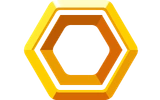
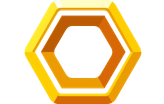
Use Roobet's real rank ladder, and fix the blurry emblems
The ladder is now the actual one: 31 ranks from Beginner to Immortal with
Roobet's own wager requirements, replacing the custom names and thresholds
that were there before.

Rewards keep the five amounts from the original table and attach to the
tier families -- $20 a Silver, $50 a Gold, $100 an Emerald, $200 a Ruby,
$250 a Diamond. That is 17 paying ranks and $1,930. Champion I upward is
listed because it is the real ladder but carries no reward: it starts at
$18,000,000 wagered and runs to ten billion, so those rows are shown faded
with a dash rather than given a number nobody will claim. Setting one is a
single edit.

The blur was a scaling bug, not a source problem. The art is 41x26 and was
being resized to 160x100 -- 3.9x, so each source pixel covered an uneven
number of output pixels and every hex edge smeared. It is now 164x104,
exactly 4x, rendered at 82px CSS: a 1x screen lands on 2x the original and
a 2x screen on 4x, both whole multiples. Eleven emblems exist at 256x160
and are downscaled smoothly instead.

formatCompact() keeps the big thresholds readable. It carries two decimals
rather than one because one rounds $2,250,000 up to "$2.3M", which would
tell a player sitting on $2.26M they had not reached a rank they had.

diff --git a/src/lib/milestones.ts b/src/lib/milestones.ts
@@ -1,74 +1,98 @@
 import { PARTNERS } from './partners';
 
 /**
- * The rank ladder and what each step pays.
+ * Roobet's rank ladder, with what each step pays.
  *
- * Twenty ranks in five reward bands. The `reward` figures are what actually
- * gets paid, so the totals on the page are summed from this array rather than
- * written out anywhere — the headline and the table cannot disagree.
+ * The names and the wager requirements are Roobet's own and are reproduced
+ * exactly. The `reward` column is ours.
  *
- * `emblem` names a file in /public/ranks. The art is Roobet's own rank
- * iconography, which is why the ladder reads as theirs: pale hexes through
- * gold, then gems, then the trophy, crown and skull at the top.
- *
- * `band` groups consecutive ranks that pay the same. It drives the dividers on
- * the page, so a band is defined once here instead of being hardcoded as a
- * row index in the markup.
+ * Rewards are set through Diamond III and are 0 above it. That is not an
+ * oversight: Champion I needs $18,000,000 wagered and Immortal needs ten
+ * billion, so those rows are the ladder being shown in full rather than a
+ * payout anybody is going to claim. Setting a figure there is a one-number
+ * edit if it ever matters.
  */
 export interface Milestone {
   rank: string;
   /** Lifetime wagered under the code, in whole dollars. */
   requirement: number;
-  /** One-time payout for reaching it. */
+  /** One-time payout for reaching it. 0 where no reward is set. */
   reward: number;
   emblem: string;
+  /** Tier family. Drives the dividers and the accent, so regrouping is data. */
   band: string;
 }
 
 export const MILESTONES: Milestone[] = [
-  { rank: 'Rookie', requirement: 10_000, reward: 20, emblem: 'beginner', band: 'Rookie' },
-  { rank: 'Advanced Rookie', requirement: 20_000, reward: 20, emblem: 'silver1', band: 'Rookie' },
-  { rank: 'Big Dick Rookie', requirement: 30_000, reward: 20, emblem: 'silver2', band: 'Rookie' },
-  { rank: 'Veteran Rookie', requirement: 40_000, reward: 20, emblem: 'silver3', band: 'Rookie' },
-  { rank: 'Rookie Elite', requirement: 50_000, reward: 20, emblem: 'silver4', band: 'Rookie' },
+  { rank: 'Beginner', requirement: 0, reward: 0, emblem: 'beginner', band: 'Beginner' },
 
-  { rank: 'Platinum Recruit', requirement: 75_000, reward: 50, emblem: 'gold1', band: 'Platinum' },
-  { rank: 'Platinum Soldier', requirement: 100_000, reward: 50, emblem: 'gold2', band: 'Platinum' },
-  { rank: 'Platinum Veteran', requirement: 125_000, reward: 50, emblem: 'gold3', band: 'Platinum' },
-  { rank: 'Platinum Elite', requirement: 150_000, reward: 50, emblem: 'gold4', band: 'Platinum' },
-  { rank: 'Platinum Commander', requirement: 175_000, reward: 50, emblem: 'emerald1', band: 'Platinum' },
+  { rank: 'Silver I', requirement: 1_000, reward: 20, emblem: 'silver1', band: 'Silver' },
+  { rank: 'Silver II', requirement: 2_700, reward: 20, emblem: 'silver2', band: 'Silver' },
+  { rank: 'Silver III', requirement: 5_500, reward: 20, emblem: 'silver3', band: 'Silver' },
+  { rank: 'Silver IV', requirement: 10_000, reward: 20, emblem: 'silver4', band: 'Silver' },
 
-  { rank: 'Elite Soldier', requirement: 250_000, reward: 100, emblem: 'emerald2', band: 'Elite' },
-  { rank: 'Elite Veteran', requirement: 325_000, reward: 100, emblem: 'emerald3', band: 'Elite' },
-  { rank: 'Elite Commander', requirement: 400_000, reward: 100, emblem: 'diamond1', band: 'Elite' },
-  { rank: 'Elite General', requirement: 475_000, reward: 100, emblem: 'diamond2', band: 'Elite' },
-  { rank: 'Elite Master', requirement: 550_000, reward: 100, emblem: 'diamond3', band: 'Elite' },
+  { rank: 'Gold I', requirement: 18_500, reward: 50, emblem: 'gold1', band: 'Gold' },
+  { rank: 'Gold II', requirement: 32_000, reward: 50, emblem: 'gold2', band: 'Gold' },
+  { rank: 'Gold III', requirement: 56_000, reward: 50, emblem: 'gold3', band: 'Gold' },
+  { rank: 'Gold IV', requirement: 95_000, reward: 50, emblem: 'gold4', band: 'Gold' },
 
-  { rank: 'Elite Legend', requirement: 700_000, reward: 200, emblem: 'ruby3', band: 'Legend' },
-  { rank: 'The General', requirement: 800_000, reward: 200, emblem: 'champion3', band: 'Legend' },
-  { rank: 'The Warlord', requirement: 900_000, reward: 200, emblem: 'master3', band: 'Legend' },
-  { rank: 'The Overlord', requirement: 1_000_000, reward: 200, emblem: 'gm3', band: 'Legend' },
+  { rank: 'Emerald I', requirement: 160_000, reward: 100, emblem: 'emerald1', band: 'Emerald' },
+  { rank: 'Emerald II', requirement: 275_000, reward: 100, emblem: 'emerald2', band: 'Emerald' },
+  { rank: 'Emerald III', requirement: 460_000, reward: 100, emblem: 'emerald3', band: 'Emerald' },
 
-  { rank: 'The Immortal', requirement: 1_250_000, reward: 250, emblem: 'immortal', band: 'Immortal' },
+  { rank: 'Ruby I', requirement: 785_000, reward: 200, emblem: 'ruby1', band: 'Ruby' },
+  { rank: 'Ruby II', requirement: 1_300_000, reward: 200, emblem: 'ruby2', band: 'Ruby' },
+  { rank: 'Ruby III', requirement: 2_250_000, reward: 200, emblem: 'ruby3', band: 'Ruby' },
+
+  { rank: 'Diamond I', requirement: 3_800_000, reward: 250, emblem: 'diamond1', band: 'Diamond' },
+  { rank: 'Diamond II', requirement: 6_500_000, reward: 250, emblem: 'diamond2', band: 'Diamond' },
+  { rank: 'Diamond III', requirement: 10_000_000, reward: 250, emblem: 'diamond3', band: 'Diamond' },
+
+  { rank: 'Champion I', requirement: 18_000_000, reward: 0, emblem: 'champion1', band: 'Champion' },
+  { rank: 'Champion II', requirement: 30_000_000, reward: 0, emblem: 'champion2', band: 'Champion' },
+  { rank: 'Champion III', requirement: 50_000_000, reward: 0, emblem: 'champion3', band: 'Champion' },
+
+  { rank: 'Legend I', requirement: 88_000_000, reward: 0, emblem: 'legend1', band: 'Legend' },
+  { rank: 'Legend II', requirement: 150_000_000, reward: 0, emblem: 'legend2', band: 'Legend' },
+  { rank: 'Legend III', requirement: 250_000_000, reward: 0, emblem: 'legend3', band: 'Legend' },
+
+  { rank: 'Master I', requirement: 425_000_000, reward: 0, emblem: 'master1', band: 'Master' },
+  { rank: 'Master II', requirement: 720_000_000, reward: 0, emblem: 'master2', band: 'Master' },
+  { rank: 'Master III', requirement: 1_200_000_000, reward: 0, emblem: 'master3', band: 'Master' },
+
+  { rank: 'Grandmaster I', requirement: 2_000_000_000, reward: 0, emblem: 'gm1', band: 'Grandmaster' },
+  { rank: 'Grandmaster II', requirement: 3_500_000_000, reward: 0, emblem: 'gm2', band: 'Grandmaster' },
+  { rank: 'Grandmaster III', requirement: 6_000_000_000, reward: 0, emblem: 'gm3', band: 'Grandmaster' },
+
+  { rank: 'Immortal', requirement: 10_000_000_000, reward: 0, emblem: 'immortal', band: 'Immortal' },
 ];
+
+/** Only the ranks that actually pay. */
+export const PAYING_MILESTONES = MILESTONES.filter((m) => m.reward > 0);
 
 /** Everything on the ladder, added up. */
 export const MILESTONE_TOTAL = MILESTONES.reduce((sum, m) => sum + m.reward, 0);
 
-/** The largest single payout. Taken as a maximum so appending out of order
- *  cannot make the page lie. */
+/** The largest single payout. A maximum, so appending out of order cannot
+ *  make the page lie. */
 export const MILESTONE_TOP = Math.max(...MILESTONES.map((m) => m.reward));
 
-/** The wager that clears the whole ladder. */
-export const MILESTONE_FINAL = Math.max(...MILESTONES.map((m) => m.requirement));
+/** The wager that clears every paying rank. */
+export const MILESTONE_FINAL = Math.max(...PAYING_MILESTONES.map((m) => m.requirement));
 
-/** One accent per band, so twenty rows read as five groups. */
+/** One accent per family, so thirty-one rows read as eleven groups. */
 export const BAND_HUE: Record<string, string> = {
-  Rookie: '#9fb2d9',
-  Platinum: '#ffc95c',
-  Elite: '#2fe6a7',
-  Legend: '#ff6b9d',
-  Immortal: '#ff4d6d',
+  Beginner: '#8da2c0',
+  Silver: '#c9d4e4',
+  Gold: '#ffc95c',
+  Emerald: '#2fe6a7',
+  Ruby: '#ff4d6d',
+  Diamond: '#7cc4ff',
+  Champion: '#ffa23d',
+  Legend: '#c77dff',
+  Master: '#ffd700',
+  Grandmaster: '#53fc18',
+  Immortal: '#ff2d55',
 };
 
 /**

diff --git a/src/app/milestones/page.tsx b/src/app/milestones/page.tsx
@@ -2,7 +2,7 @@ import type { Metadata } from 'next';
 
 import { CopyCode } from '@/components/CopyCode';
 import { ExternalIcon } from '@/components/icons';
-import { formatMoney } from '@/lib/format';
+import { formatCompact, formatMoney } from '@/lib/format';
 import {
   BAND_HUE,
   MILESTONES,
@@ -10,13 +10,14 @@ import {
   MILESTONE_STEPS,
   MILESTONE_TOP,
   MILESTONE_TOTAL,
+  PAYING_MILESTONES,
 } from '@/lib/milestones';
 import { DISCORD_INVITE, PRIMARY_PARTNER } from '@/lib/partners';
 import { SITE, pageMeta } from '@/lib/site';
 
 export const metadata: Metadata = pageMeta({
   title: 'Milestones',
-  description: `${formatMoney(MILESTONE_TOTAL)} across ${MILESTONES.length} rank-up rewards, paid once each as your lifetime wagered under code ${PRIMARY_PARTNER.code} climbs.`,
+  description: `${formatMoney(MILESTONE_TOTAL)} across ${PAYING_MILESTONES.length} rank-up rewards, paid once each as your lifetime wagered under code ${PRIMARY_PARTNER.code} climbs ${PRIMARY_PARTNER.name}'s ladder.`,
   path: '/milestones',
 });
 
@@ -39,9 +40,9 @@ export default function MilestonesPage() {
           </h1>
 
           <p className="lb-lede">
-            {MILESTONES.length} ranks, each paying once the first time you pass it. These run
-            alongside the monthly leaderboard — your lifetime wagered keeps climbing whether or not
-            you place.
+            {PRIMARY_PARTNER.name}&rsquo;s rank ladder, with a one-time payout on every rank up to
+            Diamond III. These run alongside the monthly leaderboard — your lifetime wagered keeps
+            climbing whether or not you place.
           </p>
 
           <div className="lb-actions">
@@ -59,15 +60,15 @@ export default function MilestonesPage() {
 
           <div className="ms-stats">
             <div className="stat">
-              <div className="stat-v">{MILESTONES.length}</div>
-              <span className="stat-k">Ranks on the ladder</span>
+              <div className="stat-v">{PAYING_MILESTONES.length}</div>
+              <span className="stat-k">Ranks that pay</span>
             </div>
             <div className="stat">
               <div className="stat-v">{formatMoney(MILESTONE_TOP)}</div>
               <span className="stat-k">Biggest single rank-up</span>
             </div>
             <div className="stat">
-              <div className="stat-v">{formatMoney(MILESTONE_FINAL)}</div>
+              <div className="stat-v">{formatCompact(MILESTONE_FINAL)}</div>
               <span className="stat-k">Wagered to clear them all</span>
             </div>
           </div>
@@ -77,28 +78,34 @@ export default function MilestonesPage() {
       <section className="section wrap">
         <div className="section-head">
           <h2 className="h-section">The Ladder</h2>
-          <p>Lifetime wagered under code {PRIMARY_PARTNER.code}. Every rank pays once.</p>
+          <p>
+            Lifetime wagered under code {PRIMARY_PARTNER.code}. Every rank pays once, the first
+            time you pass it.
+          </p>
         </div>
 
         <div className="ladder">
           {MILESTONES.map((m, i) => {
-            // A divider wherever the reward changes, so twenty rows read as
-            // five bands without the bands being hardcoded as row numbers.
+            // A divider wherever the family changes, so thirty-one rows read as
+            // groups without the groups being hardcoded as row numbers.
             const opensBand = i === 0 || MILESTONES[i - 1].band !== m.band;
+            const sameBand = MILESTONES.filter((x) => x.band === m.band);
             // "each" only makes sense where the band holds more than one rank.
-            const bandSize = MILESTONES.filter((x) => x.band === m.band).length;
+            const bandLabel = !m.reward
+              ? m.band
+              : `${m.band} · ${formatMoney(m.reward)}${sameBand.length > 1 ? ' each' : ''}`;
 
             return (
               <div
                 className="ms-row"
                 key={m.rank}
                 data-band={m.band}
+                data-unpaid={!m.reward || undefined}
                 style={{ ['--hue' as string]: BAND_HUE[m.band] }}
               >
                 {opensBand && (
                   <span className="ms-band" aria-hidden>
-                    {m.band} · {formatMoney(m.reward)}
-                    {bandSize > 1 ? ' each' : ''}
+                    {bandLabel}
                   </span>
                 )}
 
@@ -108,21 +115,32 @@ export default function MilestonesPage() {
 
                 <span className="ms-emblem">
                   {/* eslint-disable-next-line @next/next/no-img-element -- rank emblem */}
-                  <img src={`/ranks/${m.emblem}.webp`} alt="" width="160" height="100" />
+                  <img src={`/ranks/${m.emblem}.webp`} alt="" width="164" height="104" />
                 </span>
 
                 <span className="ms-name">{m.rank}</span>
 
                 <span className="ms-req">
                   <span className="ms-req-k">Wagered</span>
-                  {formatMoney(m.requirement)}
+                  {formatCompact(m.requirement)}
                 </span>
 
-                <span className="ms-reward">{formatMoney(m.reward)}</span>
+                <span className="ms-reward">
+                  {m.reward ? formatMoney(m.reward) : <span className="ms-dash">—</span>}
+                </span>
               </div>
             );
           })}
         </div>
+
+        <p className="notice" style={{ marginTop: 20 }}>
+          <span className="notice-mark" aria-hidden>
+            !
+          </span>
+          Champion I and everything above it is {PRIMARY_PARTNER.name}&rsquo;s ladder shown in full.
+          Those ranks start at {formatCompact(18_000_000)} wagered and carry no milestone reward
+          yet.
+        </p>
       </section>
 
       <section className="section wrap" id="claiming">
@@ -154,9 +172,9 @@ export default function MilestonesPage() {
           <span className="notice-mark" aria-hidden>
             !
           </span>
-          The rank names and thresholds here are {SITE.name}&rsquo;s own, not{' '}
-          {PRIMARY_PARTNER.name}&rsquo;s. They are measured on wagered amount at face value, the
-          same figure the leaderboard settles on, and the same fair-play rules apply.
+          The ranks and wager requirements are {PRIMARY_PARTNER.name}&rsquo;s own. The rewards
+          beside them are {SITE.name}&rsquo;s, funded out of affiliate revenue, and the same
+          fair-play rules as the leaderboard apply.
         </p>
       </section>
     </>

diff --git a/src/app/milestones.css b/src/app/milestones.css
@@ -45,7 +45,7 @@
 .ms-row {
   position: relative;
   display: grid;
-  grid-template-columns: 38px 64px minmax(0, 1fr) auto auto;
+  grid-template-columns: 38px 82px minmax(0, 1fr) auto auto;
   align-items: center;
   gap: 18px;
   min-height: 72px;
@@ -93,11 +93,12 @@
 
 .ms-emblem { display: grid; place-items: center; }
 .ms-emblem img {
-  width: 64px;
+  /* Exactly half the 164x104 file, which is itself exactly 4x the 41x26 art
+     Roobet ships. A 1x screen lands on 2x the original and a 2x screen on 4x,
+     so every source pixel covers a whole number of device pixels either way.
+     The old 3.9x scale is what made these look smeared. */
+  width: 82px;
   height: auto;
-  /* The small sources are upscaled pixel art; letting the browser smooth them
-     turns the hex edges to mush. */
-  image-rendering: pixelated;
   filter: drop-shadow(0 2px 8px rgba(0, 0, 0, 0.6));
 }
 
@@ -155,16 +156,22 @@
   /* The ordinal goes: at this width the emblem and the name carry position
      well enough, and 38px of tabular figures is the cheapest column to lose. */
   .ms-row {
-    grid-template-columns: 52px minmax(0, 1fr) auto;
+    grid-template-columns: 66px minmax(0, 1fr) auto;
     gap: 4px 14px;
     padding: 14px 16px;
     min-height: 0;
   }
   .ms-n { display: none; }
   .ms-emblem { grid-row: 1 / span 2; }
-  .ms-emblem img { width: 52px; }
+  .ms-emblem img { width: 66px; }
   .ms-name { grid-column: 2; grid-row: 1; font-size: 15px; }
   .ms-req { grid-column: 2; grid-row: 2; justify-items: start; text-align: left; font-size: 13.5px; }
   .ms-req-k { display: none; }
   .ms-reward { grid-column: 3; grid-row: 1 / span 2; font-size: 18px; }
 }
+
+/* Champion and above: shown because it is the real ladder, held back because
+   nothing is attached to them yet. */
+.ms-row[data-unpaid] { opacity: 0.6; }
+.ms-row[data-unpaid]:hover { opacity: 1; }
+.ms-dash { color: var(--dim); font-weight: 600; }

diff --git a/src/lib/format.ts b/src/lib/format.ts
@@ -56,3 +56,28 @@ export function periodLabel(start: string): string {
     timeZone: 'UTC',
   });
 }
+
+/**
+ * Short form for the big end of the rank ladder.
+ *
+ * "$10,000,000,000" is eleven glyphs of noise in a table column, and the
+ * reader only needs the magnitude. Thresholds below $1m stay written out in
+ * full, because at that end the exact figure is the thing someone is actually
+ * measuring themselves against.
+ */
+export function formatCompact(n: number): string {
+  if (n >= 1_000_000_000) return trimZero(n / 1_000_000_000) + 'B';
+  if (n >= 1_000_000) return trimZero(n / 1_000_000) + 'M';
+  return formatMoney(n);
+}
+
+/**
+ * Up to two decimals, with trailing zeros dropped: 10, 1.3, 2.25.
+ *
+ * Two rather than one because these are thresholds people measure themselves
+ * against, and one decimal rounds $2,250,000 up to "$2.3M" — which tells
+ * somebody sitting on $2.26M that they have not reached a rank they have.
+ */
+function trimZero(v: number): string {
+  return '$' + Number(v.toFixed(2)).toString();
+}
